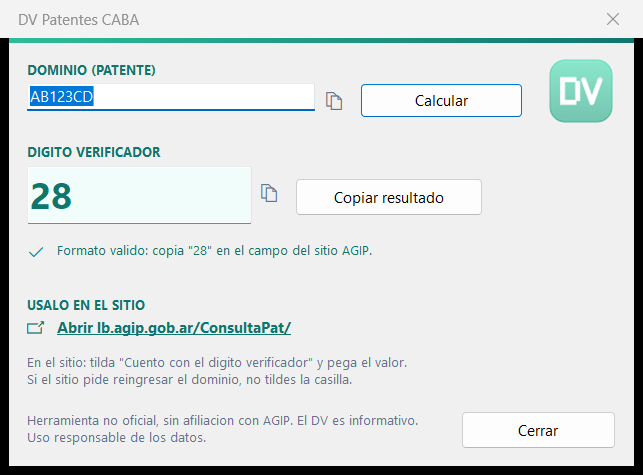
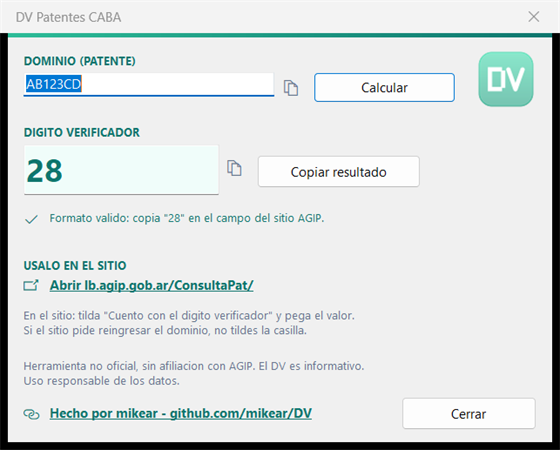
v1.0.2: autoria visible y enlace a GitHub

diff --git a/RELEASE_NOTES.md b/RELEASE_NOTES.md
@@ -1,4 +1,4 @@
-# DV Patentes CABA v1.0.1
+# DV Patentes CABA v1.0.2
 
 <img src="https://raw.githubusercontent.com/mikear/DV/main/docs/screenshot.png" alt="Aplicación calculando el dígito verificador de AB123CD" width="560">
 
@@ -6,7 +6,16 @@ Calculadora **portátil** del dígito verificador (DV) de patentes de la Ciudad
 Autónoma de Buenos Aires, usado por el sitio de AGIP:
 <https://lb.agip.gob.ar/ConsultaPat/>
 
+Hecha por **[mikear](https://github.com/mikear/DV)**. Código fuente:
+<https://github.com/mikear/DV>.
+
 **No oficial. Sin afiliación con AGIP.** Ver `DISCLAIMER.md`.
+
+## Cambios de 1.0.2
+
+- Autoría visible en la ventana: pie con enlace clickeable al repositorio.
+- La URL del repositorio figura en las propiedades del ejecutable.
+- README y DISCLAIMER con la autoría y el enlace a GitHub.
 
 ## Cambios de 1.0.1
 

diff --git a/CHANGELOG.md b/CHANGELOG.md
@@ -5,6 +5,19 @@ Todo notable de este proyecto queda documentado en este archivo.
 El formato se basa en [Keep a Changelog](https://keepachangelog.com/es-1.1.0/),
 y este proyecto adhería a [Versionado Semántico](https://semver.org/lang/es/).
 
+## [1.0.2] - 2026-10-20
+
+### Agregado
+
+- **Autoría visible en la app**: el pie de la ventana muestra
+  `Hecho por mikear - github.com/mikear/DV` con enlace clickeable al
+  repositorio.
+- **Metadatos del ejecutable**: `VersionInfoCopyright` incluye la URL del
+  repositorio; se agregaron `AppPublisherURL`, `AppSupportURL` y
+  `AppUpdatesURL`.
+- **Documentación**: línea de autoría con enlace a GitHub en `README.md` y
+  `DISCLAIMER.md`.
+
 ## [1.0.1] - 2026-10-19
 
 ### Corregido

diff --git a/README.md b/README.md
@@ -15,6 +15,8 @@
 
 Ejecutable único. Sin conexiones propias. Cero instalación. Código fuente incluido.
 
+Hecho por [mikear](https://github.com/mikear/DV) — <https://github.com/mikear/DV>
+
 [Cómo verificar el archivo](#verificación-y-auditoría) · [El algoritmo](ALGORITMO_DV.md) · [Aviso legal](DISCLAIMER.md)
 
 </div>

diff --git a/DISCLAIMER.md b/DISCLAIMER.md
@@ -52,3 +52,5 @@ infracción. El autor no será responsable de daños derivados del uso o de la
 imposibilidad de uso de esta herramienta.
 
 Lee además `README.md` y la licencia `LICENSE`.
+
+Autor: **mikear** — <https://github.com/mikear/DV>
